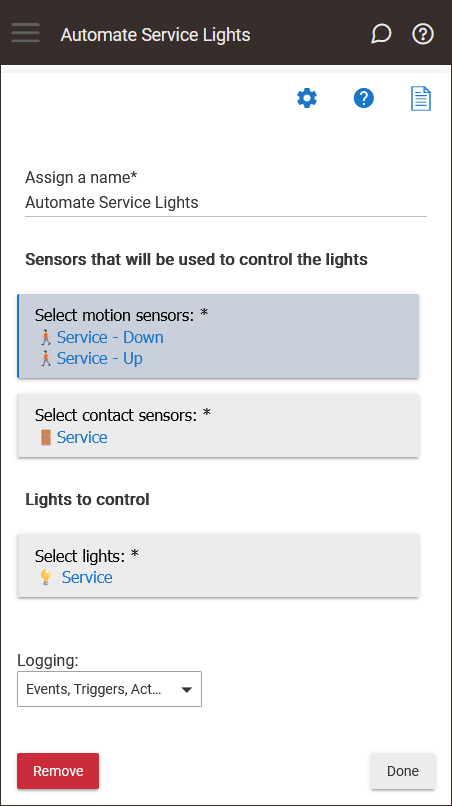
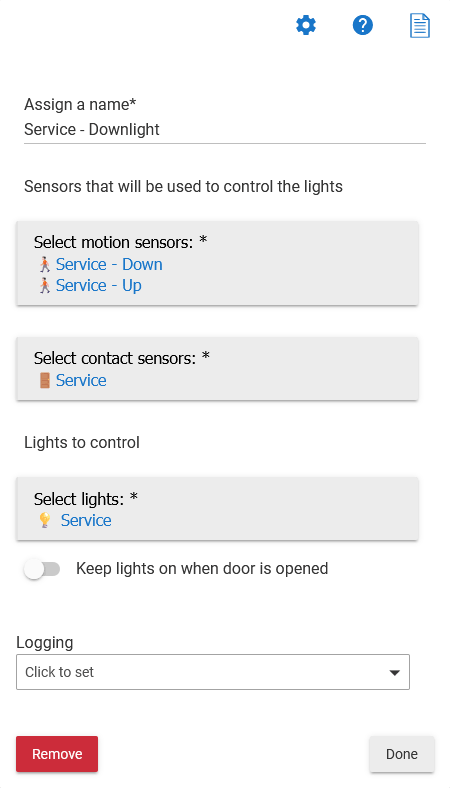
Lumos: Add option to keep lights on when person is leaving the room

diff --git a/lumos-app/README.md b/lumos-app/README.md
@@ -41,7 +41,7 @@ To control the room lights, place contact sensors on each door and one or more m
 
 1. If any motion sensor detects movement, the lights will turn on for 5 minutes. Each motion detection resets the 5-minute timer.
 
-1. If motion is detected and all doors are closed, the lights will remain on until a door is opened. In this scenario, motion events are ignored, and opening a door will immediately turn off the lights.
+1. If motion is detected and all doors are closed, the lights will remain on until a door is opened. In this scenario, motion events are ignored and, when a door is opened, the app will immediately turn off the lights (if the `Keep lights on when door is opened` option is disabled).
 
 These rules make the app ideal for bathrooms, pantries, and basements, but less suitable for bedrooms or living rooms where multiple people use the doors.
 

diff --git a/lumos-app/CHANGELOG.md b/lumos-app/CHANGELOG.md
@@ -5,6 +5,11 @@ All notable changes to this project will be documented in this file.
 The format is based on [Keep a Changelog](https://keepachangelog.com/en/1.0.0/),
 and this project adheres to [Semantic Versioning](https://semver.org/spec/v2.0.0.html).
 
+
+## [1.1.0] - 2024-10-19
+### Added
+- Add option to keep lights on when person is leaving the room
+
 ## [1.0.0] - 2024-06-12
 ### Added
 - Initial release
